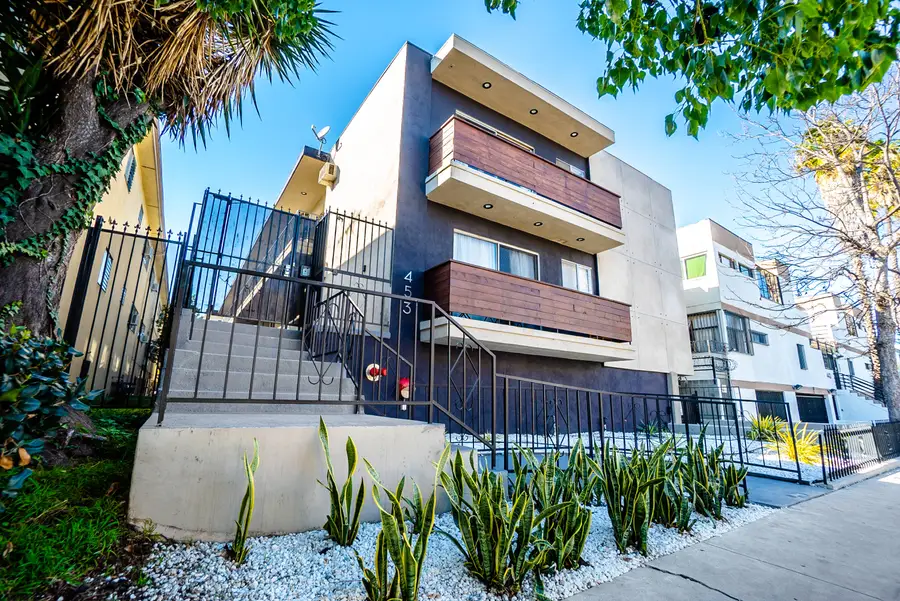
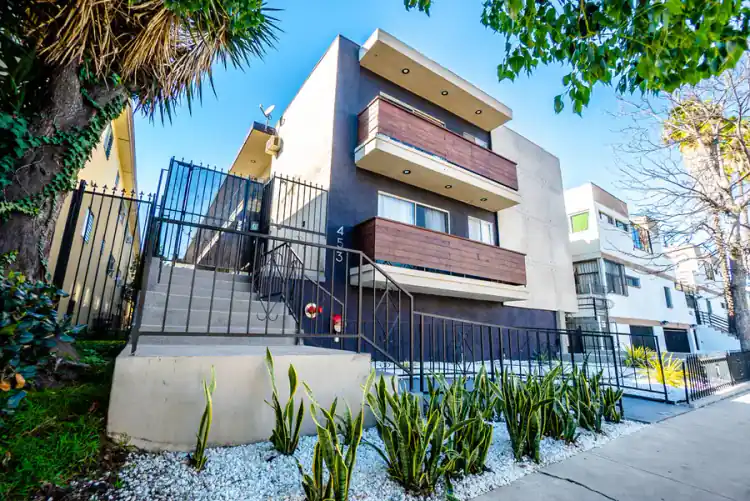
SEO: lighter hero images, titles under 60 characters, descriptions under 160, distinct case-study and closed-sale headings

diff --git a/src/data/caseStudies.ts b/src/data/caseStudies.ts
@@ -227,7 +227,7 @@ export const caseStudies: CaseStudy[] = [
 		title: '1513 Arlington Ave',
 		location: 'Arlington Heights, Los Angeles, CA',
 		submarket: null,
-		summary: 'Dual representation on a 9-unit Arlington Heights building drew 12 offers, shifting deferred electrical and balcony work to the buyer for our seller’s 1031 exchange.',
+		summary: 'Dual representation on a 9-unit Arlington Heights building drew 12 offers and moved deferred electrical and balcony work to the buyer for our seller’s 1031.',
 		dealType: ['1031', 'value-add'],
 		opportunity:
 			'1513 Arlington Ave is a 9-unit apartment building in Arlington Heights. We generally advise our sellers against spending money on their property before a sale, since sellers historically see little return on that investment from buyers. Investors targeting RSO buildings, especially ones with below-market tenants and deferred maintenance, typically bring their own value-add plan and the experience to bring a property up to market more cost effectively than a seller can. Following that approach, our selling client did not want to fund two costly items before close: replacing the property’s Federal Pacific electrical sub-panels, which insurers are increasingly requiring owners to replace, and completing the SB 721 inspection of its two exterior balconies, a state-mandated safety inspection of balconies, decks, stairways, and walkways on multifamily buildings with three or more units.',

diff --git a/src/data/posts.ts b/src/data/posts.ts
@@ -305,7 +305,7 @@ const allPosts: Post[] = [
 		title: 'Selling an LA Apartment Building With Tenants Under Rent Control',
 		seoTitle: 'Selling a Rent-Controlled Apartment Building in Los Angeles',
 		description:
-			'Selling a rent-controlled apartment building in Los Angeles? How rent control and long-term tenants affect price, the broker and buyer you need, and your timeline.',
+			'Selling a rent-controlled apartment building in Los Angeles? How rent control and long-term tenants affect your price, your buyers, and your timeline.',
 		date: '2026-10-15',
 		image: {
 			src: '/images/insights/selling-with-rent-controlled-tenants.webp',
@@ -982,7 +982,7 @@ const allPosts: Post[] = [
 	{
 		slug: 'broker-opinion-of-value-vs-appraisal-apartment-building',
 		title: 'Broker Opinion of Value vs. Appraisal: Which Do You Need to Sell?',
-		seoTitle: 'Broker Opinion of Value vs. Appraisal for Apartment Buildings',
+		seoTitle: 'Broker Opinion of Value vs. Appraisal: Apartment Buildings',
 		description:
 			'A Broker Opinion of Value and an appraisal answer different questions. What each is, what it costs, and which one an LA apartment seller needs first.',
 		date: '2026-10-21',
